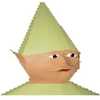
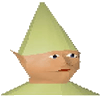
made player transparent and added inital background render of P

diff --git a/src/create_map.c b/src/create_map.c
@@ -6,7 +6,7 @@
 /*   By: sruff <sruff@student.42.fr>                +#+  +:+       +#+        */
 /*                                                +#+#+#+#+#+   +#+           */
 /*   Created: 2024/06/02 16:47:28 by sruff             #+#    #+#             */
-/*   Updated: 2024/06/25 14:07:03 by sruff            ###   ########.fr       */
+/*   Updated: 2024/06/25 14:30:16 by sruff            ###   ########.fr       */
 /*                                                                            */
 /* ************************************************************************** */
 
@@ -26,6 +26,7 @@ static void	load_tile(t_game *g, char c, int x, int y)
 	}
 	else if (c == 'P')
 	{
+		load_image(g, 0, x * TILE, y * TILE);
 		load_image(g, 1, x * TILE, y * TILE);
 		g->player.x = x;
 		g->player.y = y;
